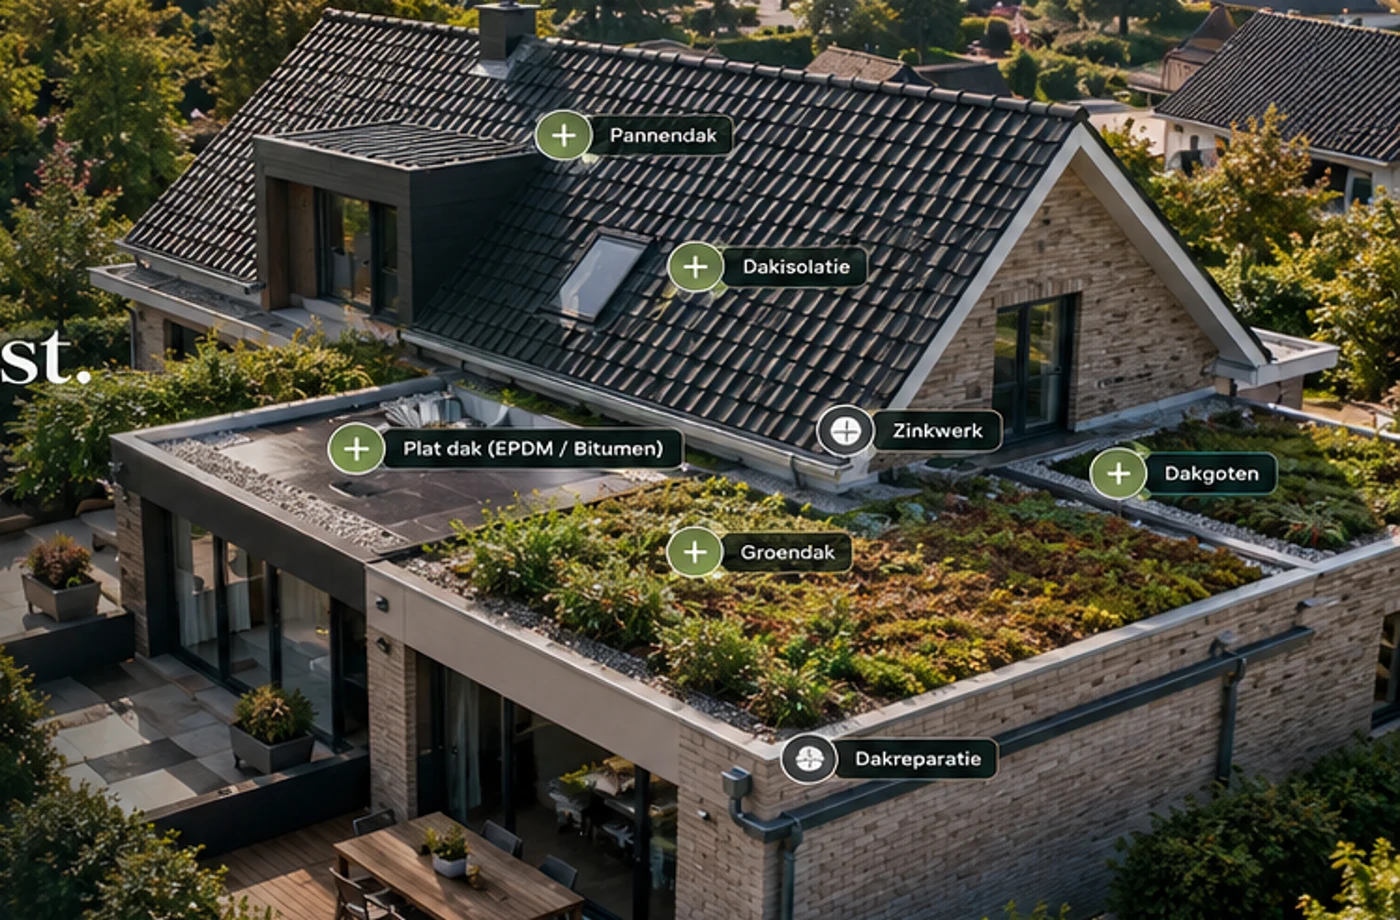
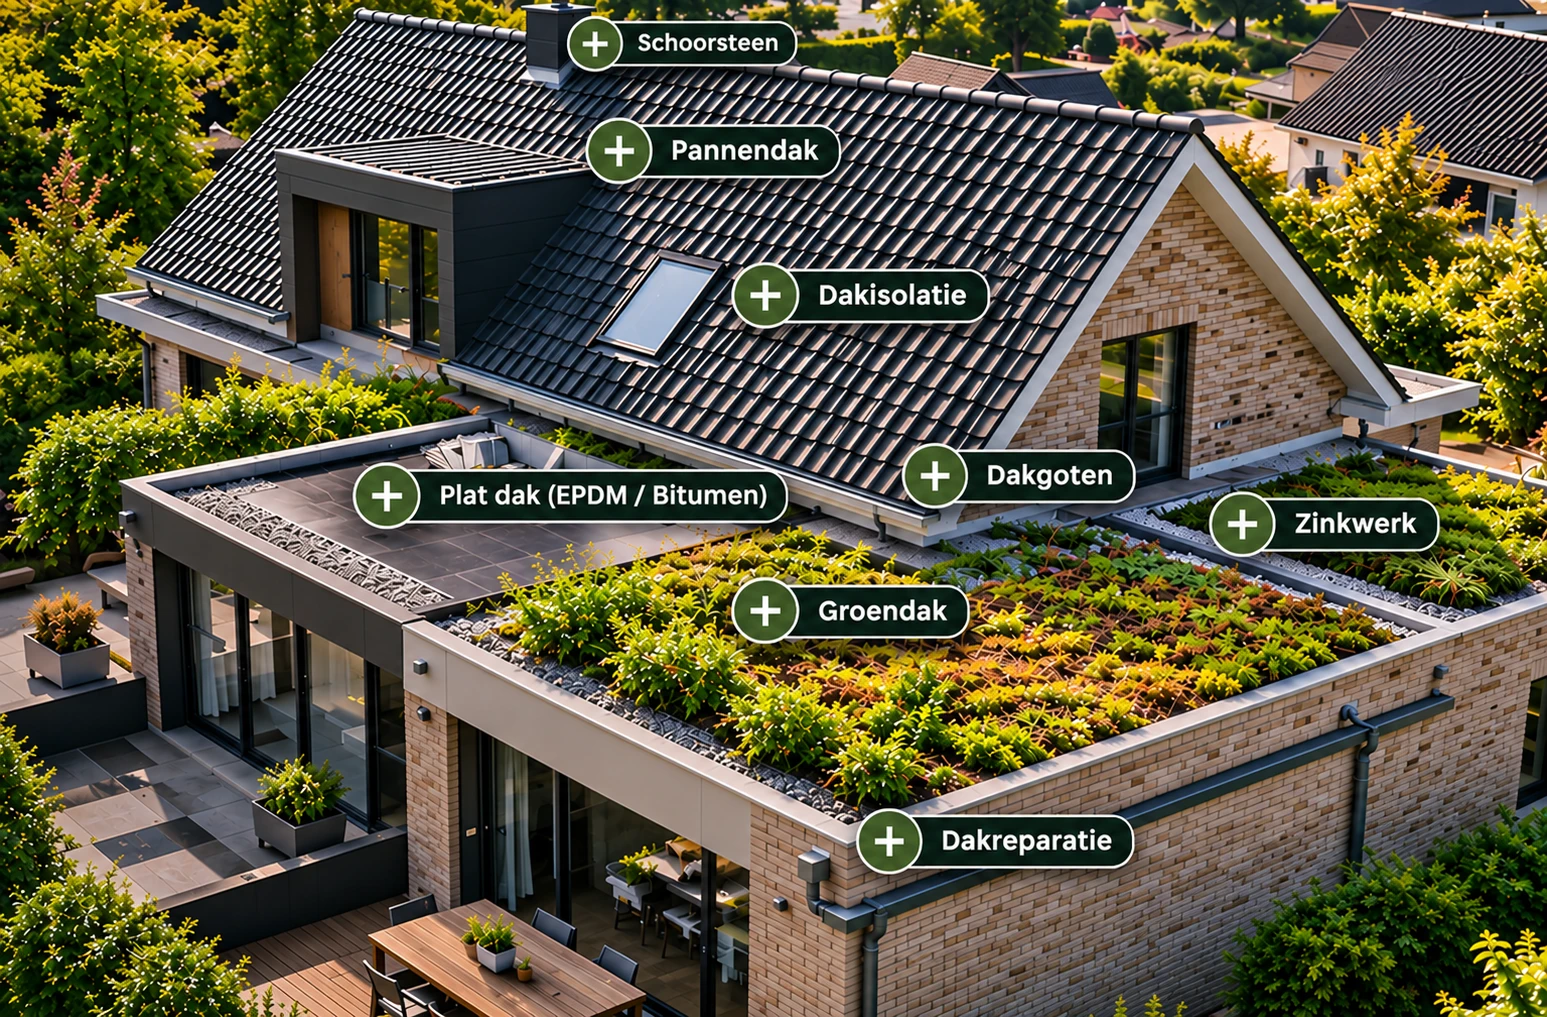
Add files via upload

diff --git a/index.html b/index.html
@@ -6,200 +6,55 @@
 @media(max-width:760px){.wrap{padding:0 19px}.header{position:absolute}.nav{height:79px}.logo{width:188px;max-width:70vw}.mobilemenu{display:block}.navlinks{display:none;position:absolute;left:0;right:0;top:79px;background:#0c1915;padding:25px;flex-direction:column;align-items:flex-start;gap:20px}.navlinks.open{display:flex}.hero{min-height:920px;display:block}.hero:before{background:linear-gradient(0deg,#0a1613 0%,#0a1613 28%,#0a1613aa 50%,transparent 88%)}.hero-image{top:79px;left:0;right:0;width:100%;height:480px;background-position:center top}.house-hotspots{top:79px;width:100%;height:480px}.hero-inner{padding-top:535px;padding-bottom:45px}.hero h1{font-size:clamp(41px,9vw,58px);letter-spacing:-1.4px}.lead{font-size:15px}.house-tip{top:510px;bottom:auto;right:20px}.house-info{top:315px;bottom:auto;right:15px;width:calc(100% - 30px)}.hotspot{min-width:50px;min-height:33px}.trust{gap:12px}.benefit-grid{grid-template-columns:repeat(2,1fr)}.benefit{border-bottom:1px solid #ffffff25}.section{padding:58px 0}.cards{grid-template-columns:1fr 1fr;gap:10px}.service{min-height:195px}.service h3{font-size:17px}.service .txt{padding:13px}.service p{font-size:11px}.story-grid,.contact-grid{grid-template-columns:1fr;gap:25px}.steps{grid-template-columns:1fr 1fr}.footer .wrap{flex-direction:column;text-align:center}.section-head{display:block}}
 @media(max-width:440px){.cards{grid-template-columns:1fr}.service{min-height:220px}.benefit .ic{font-size:20px}.benefit b{font-size:12px}.benefit small{font-size:10px}.actions .cta{padding:14px 15px}.hero{min-height:970px}}
 </style>
-<style id="hotspot-fix-v5">
-/* Keep the photograph and its clickable labels on one identical coordinate system. */
+<style id="hotspot-fix-v6">
+/* De klikvlakken gebruiken dezelfde afmetingen als de woningafbeelding. */
 .header{position:fixed;top:0;left:0;right:0}
 .hero{min-height:790px}
 .hero-image,.house-hotspots{
-  top:105px;right:0;left:auto;
-  width:min(65vw, calc((790px - 105px)*1.52174));
-  height:auto;aspect-ratio:1400 / 920;
+  top:105px;right:0;left:auto;width:min(65vw,calc((790px - 105px)*1547/1017));
+  height:auto;aspect-ratio:1547/1017;
 }
-.hero-image{
-  background-image:url('interactief-huis.webp');
-  background-position:center;
-  background-size:100% 100%;
-}
+.hero-image{background-image:url('interactief-huis.webp');background-position:center;background-size:100% 100%;filter:brightness(1.08) saturate(1.06);opacity:1}
 .house-hotspots{z-index:8}
-.hotspot{
-  border:0;outline:0;background:transparent;
-  border-radius:32px;min-width:0;min-height:0;
-  padding:0;transform:none;
-}
-.hotspot:hover,.hotspot:focus-visible,.hotspot[aria-pressed="true"]{
-  outline:2px solid #e7c67e;outline-offset:2px;
-  background:#d5b57525;
-}
-/* Hit areas match the printed labels and + icons in the photograph. */
-.hotspot.one{left:37.7%;top:11.7%;width:16.0%;height:6.6%}
-.hotspot.two{left:47.3%;top:26.0%;width:15.9%;height:6.8%}
-.hotspot.three{left:23.0%;top:45.4%;width:26.5%;height:6.9%}
-.hotspot.four{left:47.5%;top:56.7%;width:14.1%;height:6.5%}
-.hotspot.five{left:77.5%;top:48.4%;width:14.7%;height:6.8%}
-.hotspot.six{left:55.7%;top:79.1%;width:16.0%;height:7.2%}
-.hotspot.seven{left:58.2%;top:43.9%;width:14.1%;height:6.6%}
+.hotspot{border:0!important;outline:0;background:transparent!important;border-radius:28px;min-width:0;min-height:0;padding:0;transform:none;color:transparent}
+/* Alleen bij hover of toetsenbordfocus een gouden rand; niet na een klik. */
+.hotspot:hover,.hotspot:focus-visible{outline:3px solid #e7c67e!important;outline-offset:2px;background:#d5b57522!important}
+.hotspot[aria-pressed="true"]:not(:hover):not(:focus-visible){outline:0!important;background:transparent!important}
+/* Nauwkeurige posities op de afbeelding (1547 x 1017). */
+.hotspot.chimney{left:35.6%;top:1.5%;width:15%;height:5.7%}
+.hotspot.one{left:36.7%;top:11.0%;width:16.6%;height:6.8%}
+.hotspot.two{left:46.0%;top:24.8%;width:16.7%;height:7.0%}
+.hotspot.three{left:22.0%;top:43.9%;width:27.8%;height:7.3%}
+.hotspot.four{left:45.8%;top:55.0%;width:15.8%;height:7.1%}
+.hotspot.five{left:56.5%;top:42.0%;width:17.0%;height:7.1%}
+.hotspot.six{left:53.5%;top:77.0%;width:18.7%;height:7.5%}
+.hotspot.seven{left:75.8%;top:46.9%;width:17.4%;height:7.2%}
 .house-info{position:fixed;right:28px;bottom:26px;z-index:30;width:min(350px,calc(100vw - 36px))}
 .house-tip{z-index:9;right:20px;bottom:16px}
 #home,#woning,#diensten,#werkwijze,#contact{scroll-margin-top:115px}
-@media(max-width:1100px){
-  .hero-image,.house-hotspots{width:68vw;top:105px}
-}
+@media(max-width:1100px){.hero-image,.house-hotspots{width:68vw;top:105px}}
 @media(max-width:760px){
   .header{position:sticky}
   .hero{display:flex;flex-direction:column;min-height:0;overflow:visible;padding-bottom:20px}
   .hero:before{background:linear-gradient(180deg,#0a1613 0%,transparent 100%);height:550px}
   .hero-inner{order:0;padding-top:40px;padding-bottom:28px}
-  .hero-image,.house-hotspots{
-    position:relative;right:auto;top:auto;left:auto;
-    width:100%;height:auto;aspect-ratio:1400/920;
-  }
+  .hero-image,.house-hotspots{position:relative;right:auto;top:auto;left:auto;width:100%;height:auto;aspect-ratio:1547/1017}
   .hero-image{order:1;z-index:2}
-  .house-hotspots{order:2;margin-top:calc(-100vw * 920 / 1400);z-index:10}
+  .house-hotspots{order:2;margin-top:calc(-100vw * 1017 / 1547);z-index:10}
   .house-tip{display:none}
   .house-info{position:fixed}
 }
-
-/* Green Solutions: duidelijkere interactieve woning */
-@media (min-width: 761px) {
-  .hero {
-    min-height: 830px;
-  }
-
-  .hero-image,
-  .house-hotspots {
-    width: min(74vw, 1100px);
-    top: 105px;
-    right: 0;
-  }
-
-  .hero:before {
-    background: linear-gradient(
-      90deg,
-      #0a1613 0%,
-      #0a1613 23%,
-      #0a1613ed 37%,
-      #0a1613a8 49%,
-      #0a161340 64%,
-      transparent 83%
-    );
-  }
-
-  .hero-image {
-    opacity: 1;
-    filter: brightness(1.12) saturate(1.12);
-  }
-}
-  
-/* Uniforme klikvlakken op de interactieve woning */
-.house-hotspots .hotspot {
-  box-sizing: border-box;
-  min-width: 0;
-  min-height: 0;
-  padding: 0;
-  border: 2px solid transparent;
-  border-radius: 30px;
-  outline: none;
-  background: transparent;
-  box-shadow: none;
-  cursor: pointer;
-  transition:
-    border-color 0.2s ease,
-    background-color 0.2s ease,
-    box-shadow 0.2s ease;
-}
-
-/* Alleen goudkleurige gloed bij hover */
-@media (hover: hover) {
-  .house-hotspots .hotspot:hover {
-    border-color: #e5c17b;
-    background: rgba(213, 181, 117, 0.14);
-    box-shadow: 0 0 16px rgba(213, 181, 117, 0.4);
-  }
-}
-
-/* Toegankelijk voor toetsenbordgebruikers */
-.house-hotspots .hotspot:focus-visible {
-  outline: 2px solid #e5c17b;
-  outline-offset: 3px;
-}
-
-/* Geen blijvende gloed na aanklikken */
-.house-hotspots .hotspot[aria-pressed="true"] {
-  border-color: transparent;
-  background: transparent;
-  box-shadow: none;
-}
-
-/* Ook geselecteerde knop licht op bij hover */
-@media (hover: hover) {
-  .house-hotspots .hotspot[aria-pressed="true"]:hover {
-    border-color: #e5c17b;
-    background: rgba(213, 181, 117, 0.14);
-    box-shadow: 0 0 16px rgba(213, 181, 117, 0.4);
-  }
-}
-
-/* Informatiekaart beter leesbaar */
-.house-info {
-  width: min(420px, calc(100vw - 36px));
-  padding: 24px;
-  border: 2px solid #d5b575;
-}
-
-.house-info h3 {
-  font-size: 24px;
-}
-
-.house-info p {
-  font-size: 16px;
-  line-height: 1.65;
-}
-
-.house-info a {
-  display: inline-block;
-  font-size: 17px;
-  padding: 10px 0;
-}
-
-/* Instructie duidelijker */
-.house-tip {
-  font-size: 16px;
-  font-weight: 700;
-  border: 1px solid #d5b575;
-  color: #f7f8f3;
-}
-
-/* Mobiel: afbeelding volledig zichtbaar houden */
-@media (max-width: 760px) {
-  .hero-image,
-  .house-hotspots {
-    width: 100%;
-  }
-
-  .hero-image {
-    filter: brightness(1.08) saturate(1.08);
-  }
-
-  .hotspot {
-    min-height: 0;
-    border-width: 1px;
-  }
-
-  .house-info {
-    padding: 18px;
-  }
-}  
 </style>
 </head><body>
 <header class="header"><div class="wrap nav"><a aria-label="Green Solutions homepage" href="#home"><img alt="Green Solutions – Vertrouwd vakmanschap voor een duurzamere wereld" class="logo" src="logo.svg"/></a><nav aria-label="Hoofdnavigatie" class="navlinks" id="navlinks"><a href="#home">Home</a><a href="#diensten">Onze diensten</a><a href="#woning">Ontdek uw dak</a><a href="#werkwijze">Werkwijze</a><a href="#contact">Contact</a></nav><a class="cta" href="#contact">Offerte aanvragen ↗</a><button aria-controls="navlinks" aria-expanded="false" class="mobilemenu" id="menu">☰ Menu</button></div></header>
-<main><section class="hero" id="home"><div aria-label="Fotorealistische voorbeeldwoning met pannendak, plat dak, groendak en dakgoten" class="hero-image" role="img"></div><div aria-label="Klikbare onderdelen van de voorbeeldwoning" class="house-hotspots" id="woning"><button aria-label="Bekijk pannendaken" class="hotspot one" data-key="pannen">Pannendaken</button><button aria-label="Bekijk dakisolatie" class="hotspot two" data-key="isolatie">Dakisolatie</button><button aria-label="Bekijk platte daken" class="hotspot three" data-key="plat">Platte daken</button><button aria-label="Bekijk groendaken" class="hotspot four" data-key="groen">Groendaken</button><button aria-label="Bekijk dakgoten" class="hotspot five" data-key="goot">Dakgoten</button><button aria-label="Bekijk dakreparaties" class="hotspot six" data-key="reparatie">Dakreparaties</button><button aria-label="Bekijk zinkwerk" class="hotspot seven" data-key="zink">Zinkwerk</button></div><div class="house-tip" id="house-tip">✦ Klik op een dakonderdeel voor uitleg</div><div aria-live="polite" class="house-info" id="house-info"><h3 id="house-title"></h3><p id="house-description"></p><a href="#contact">Offerte aanvragen →</a></div><div class="wrap hero-inner"><div class="hero-copy"><div class="eyebrow" id="cms-eyebrow">Dakrenovatie · Isolatie · Groendaken</div><h1 id="cms-headline">Uw dak.<br/>Vakkundig vernieuwd.<br/><span>Slim verbeterd.</span></h1><p class="lead" id="cms-intro">Van pannendaken en platte daken tot dakisolatie, zinkwerk en groendaken. Eén aanspreekpunt voor advies, renovatie en onderhoud.</p><div class="actions"><a class="cta" href="#contact">Offerte aanvragen <span>→</span></a><a class="cta ghost" href="#diensten">Bekijk onze diensten ↓</a></div><div class="trust"><span>Helder advies</span><span>Vakkundige uitvoering</span><span>Werkzaam in Nederland</span></div></div></div></section>
+<main><section class="hero" id="home"><div aria-label="Voorbeeldwoning met acht klikbare dakonderdelen, waaronder schoorsteen, pannendak, plat dak, groendak, dakgoten en zinkwerk" class="hero-image" role="img"></div><div aria-label="Klikbare onderdelen van de voorbeeldwoning" class="house-hotspots" id="woning"><button aria-label="Bekijk schoorsteenwerkzaamheden" class="hotspot chimney" data-key="schoorsteen">Schoorsteen</button><button aria-label="Bekijk pannendaken" class="hotspot one" data-key="pannen">Pannendaken</button><button aria-label="Bekijk dakisolatie" class="hotspot two" data-key="isolatie">Dakisolatie</button><button aria-label="Bekijk platte daken" class="hotspot three" data-key="plat">Platte daken</button><button aria-label="Bekijk groendaken" class="hotspot four" data-key="groen">Groendaken</button><button aria-label="Bekijk dakgoten" class="hotspot five" data-key="goot">Dakgoten</button><button aria-label="Bekijk dakreparaties" class="hotspot six" data-key="reparatie">Dakreparaties</button><button aria-label="Bekijk zinkwerk" class="hotspot seven" data-key="zink">Zinkwerk</button></div><div class="house-tip" id="house-tip">✦ Klik op een dakonderdeel voor uitleg</div><div aria-live="polite" class="house-info" id="house-info"><h3 id="house-title"></h3><p id="house-description"></p><a href="#contact">Offerte aanvragen →</a></div><div class="wrap hero-inner"><div class="hero-copy"><div class="eyebrow" id="cms-eyebrow">Dakrenovatie · Isolatie · Groendaken</div><h1 id="cms-headline">Uw dak.<br/>Vakkundig vernieuwd.<br/><span>Slim verbeterd.</span></h1><p class="lead" id="cms-intro">Van pannendaken en platte daken tot dakisolatie, zinkwerk en groendaken. Eén aanspreekpunt voor advies, renovatie en onderhoud.</p><div class="actions"><a class="cta" href="#contact">Offerte aanvragen <span>→</span></a><a class="cta ghost" href="#diensten">Bekijk onze diensten ↓</a></div><div class="trust"><span>Helder advies</span><span>Vakkundige uitvoering</span><span>Werkzaam in Nederland</span></div></div></div></section>
 <section class="benefits"><div class="wrap benefit-grid"><div class="benefit"><div class="ic">♧</div><div><b>Praktische verduurzaming</b><small>Isolatie en groendaken waar passend</small></div></div><div class="benefit"><div class="ic">◇</div><div><b>Technisch verantwoord</b><small>Waterdichtheid en veiligheid voorop</small></div></div><div class="benefit"><div class="ic">⌂</div><div><b>Complete dakdiensten</b><small>Van renovatie tot zinkwerk</small></div></div><div class="benefit"><div class="ic">◎</div><div><b>Eén aanspreekpunt</b><small>Van eerste advies tot nazorg</small></div></div></div></section>
 <section class="section services" id="diensten"><div class="wrap"><div class="section-head"><div><div class="eyebrow">Onze expertise</div><h2 id="cms-services-heading">Alles voor een goed dak.</h2></div><p class="section-intro" id="cms-services-intro">Of u nu een lekkage wilt verhelpen, uw dak wilt vernieuwen of uw woning beter wilt isoleren: wij bekijken welke oplossing bij uw dak past.</p></div><div class="cards"><a class="service" data-cms-card="0" href="#contact"><img alt="Dakpannen op een schuin dak" loading="lazy" src="dienst-1.webp"/><div class="txt"><h3>Pannendaken</h3><p>Renovatie, herstel en isolatie</p><span class="arr">↗</span></div></a><a class="service" data-cms-card="1" href="#contact"><img alt="Plat dak met dakbedekking" loading="lazy" src="dienst-2.webp"/><div class="txt"><h3>Platte daken</h3><p>Bitumen, EPDM en dakrenovatie</p><span class="arr">↗</span></div></a><a class="service" data-cms-card="2" href="#contact"><img alt="Begroeid dak met sedum" loading="lazy" src="dienst-3.webp"/><div class="txt"><h3>Groendaken</h3><p>Sedum, waterberging en beplanting</p><span class="arr">↗</span></div></a><a class="service" data-cms-card="3" href="#contact"><img alt="Isolatiemateriaal in dakconstructie" loading="lazy" src="dienst-4.webp"/><div class="txt"><h3>Dakisolatie</h3><p>Voor pannendaken en platte daken</p><span class="arr">↗</span></div></a><a class="service" data-cms-card="4" href="#contact"><img alt="Metalen dakgoot en afvoer" loading="lazy" src="dienst-5.webp"/><div class="txt"><h3>Dakgoten &amp; zinkwerk</h3><p>Goten, afvoeren en maatwerk</p><span class="arr">↗</span></div></a><a class="service" data-cms-card="5" href="#contact"><img alt="Herstel van dakbedekking" loading="lazy" src="dienst-6.webp"/><div class="txt"><h3>Dakreparatie</h3><p>Lekkages, schadeherstel en onderhoud</p><span class="arr">↗</span></div></a></div></div></section>
 <section class="section story" id="werkwijze"><div class="wrap story-grid"><div><img alt="Voorbeeldwoning met verschillende dakoplossingen" class="story-img" loading="lazy" src="interactief-huis.webp"/></div><div><div class="eyebrow">Meer dan alleen dakbedekking</div><h2 id="cms-approach-heading">Een doordachte oplossing voor uw woning.</h2><p id="cms-approach-1">Een goed dak begint met een goed plan. We kijken naar de staat van de dakbedekking, de afwatering en de mogelijkheden voor isolatie. Als de constructie en dakopbouw geschikt zijn, kan een groendak een waardevolle aanvulling zijn.</p><p id="cms-approach-2">Zo krijgt u een helder voorstel waarin noodzakelijk dakwerk en eventuele verbeteringen afzonderlijk worden toegelicht.</p><a class="cta" href="#contact">Bespreek uw dak →</a></div></div><div class="wrap steps"><div class="step"><strong>01</strong><h3>Uw aanvraag</h3><p>Vertel ons welk dak u heeft en wat u wilt laten uitvoeren.</p></div><div class="step"><strong>02</strong><h3>Inspectie &amp; advies</h3><p>We beoordelen de situatie en de technische mogelijkheden.</p></div><div class="step"><strong>03</strong><h3>Heldere offerte</h3><p>U ontvangt een voorstel met de werkzaamheden en opties.</p></div><div class="step"><strong>04</strong><h3>Uitvoering &amp; nazorg</h3><p>Na uitvoering bespreken we oplevering en passend onderhoud.</p></div></div></section>
 <section class="section contact" id="contact"><div class="wrap contact-grid"><div><div class="eyebrow">Contact</div><h2 id="cms-contact-heading">Wat kunnen wij voor uw dak betekenen?</h2><p id="cms-contact-intro">Heeft u plannen voor een dakrenovatie, isolatie of groendak? Beschrijf uw situatie. Dan kunnen we gericht meedenken over de mogelijkheden.</p><p><strong>Let op:</strong> deze website is nog een ontwerp. Het formulier is een demonstratie en verstuurt nog geen aanvragen.</p></div><form class="form" id="quote"><label>Naam<input autocomplete="name" name="naam" placeholder="Uw naam" required=""/></label><label>E-mailadres<input autocomplete="email" name="email" placeholder="naam@voorbeeld.nl" required="" type="email"/></label><label>Waar gaat uw aanvraag over?<select name="dienst"><option>Pannendak</option><option>Plat dak (bitumen / EPDM)</option><option>Dakisolatie</option><option>Groendak</option><option>Dakgoten en zinkwerk</option><option>Dakreparatie</option><option>Anders / meerdere werkzaamheden</option></select></label><label>Uw bericht<textarea name="bericht" placeholder="Vertel kort wat u wilt laten uitvoeren..." required=""></textarea></label><button class="cta" type="submit">Bekijk mijn aanvraag →</button><p class="notice">Demonstratie: er wordt niets verzonden of opgeslagen.</p><p id="form-response" role="status"></p></form></div></section></main>
 <footer class="footer"><div class="wrap"><img alt="Green Solutions" src="logo.svg" width="175"/><small>© <span id="year"></span> Green Solutions · Website in ontwikkeling</small><a href="#home">Terug naar boven ↑</a></div></footer>
 <script>
-const content={pannen:['Pannendaken','Dakpannen vervangen, dakrenovatie en herstel van de dakconstructie. Ook isolatie kan worden meegenomen.'],isolatie:['Dakisolatie','Isolatieverbetering van schuine pannendaken én platte daken, afgestemd op de bestaande dakopbouw.'],plat:['Platte daken','Renovatie en herstel van platte daken met bitumen of EPDM, inclusief aansluitingen en afwatering.'],groen:['Groendaken','Sedum en andere passende begroeiing. We beoordelen eerst draagkracht, dakopbouw, waterafvoer en onderhoud.'],goot:['Dakgoten','Herstel en vervanging van dakgoten, regenwaterafvoeren en aansluitingen.'],reparatie:['Dakreparatie','Onderzoek en herstel van lekkages, beschadigingen en versleten dakdetails.'],zink:['Zinkwerk','Zinken dakgoten, afvoeren, dakranden en aansluitingen op maat.']};
+const content={schoorsteen:['Schoorsteenwerkzaamheden','Inspectie, herstel, renovatie en verwijdering van schoorstenen, inclusief lood- en voegwerk waar nodig.'],pannen:['Pannendaken','Dakpannen vervangen, dakrenovatie en herstel van de dakconstructie. Ook isolatie kan worden meegenomen.'],isolatie:['Dakisolatie','Isolatieverbetering van schuine pannendaken én platte daken, afgestemd op de bestaande dakopbouw.'],plat:['Platte daken','Renovatie en herstel van platte daken met bitumen of EPDM, inclusief aansluitingen en afwatering.'],groen:['Groendaken','Sedum en andere passende begroeiing. We beoordelen eerst draagkracht, dakopbouw, waterafvoer en onderhoud.'],goot:['Dakgoten','Herstel en vervanging van dakgoten, regenwaterafvoeren en aansluitingen.'],reparatie:['Dakreparatie','Onderzoek en herstel van lekkages, beschadigingen en versleten dakdetails.'],zink:['Zinkwerk','Zinken dakgoten, afvoeren, dakranden en aansluitingen op maat.']};
 const info=document.getElementById('house-info'),tip=document.getElementById('house-tip');document.querySelectorAll('.hotspot').forEach(b=>b.addEventListener('click',()=>{document.querySelectorAll('.hotspot').forEach(x=>x.setAttribute('aria-pressed','false'));b.setAttribute('aria-pressed','true');const [t,d]=content[b.dataset.key];document.getElementById('house-title').textContent=t;document.getElementById('house-description').textContent=d;info.classList.add('show');tip.style.display='none'}));
 const menu=document.getElementById('menu'),links=document.getElementById('navlinks');menu.addEventListener('click',()=>{const open=links.classList.toggle('open');menu.setAttribute('aria-expanded',open)});links.querySelectorAll('a').forEach(a=>a.addEventListener('click',()=>{links.classList.remove('open');menu.setAttribute('aria-expanded','false')}));document.getElementById('year').textContent=new Date().getFullYear();document.getElementById('quote').addEventListener('submit',e=>{e.preventDefault();document.getElementById('form-response').textContent='Uw gegevens zijn ingevuld. Dit is een demonstratie: de aanvraag is niet verzonden.'});
 </script><script>
